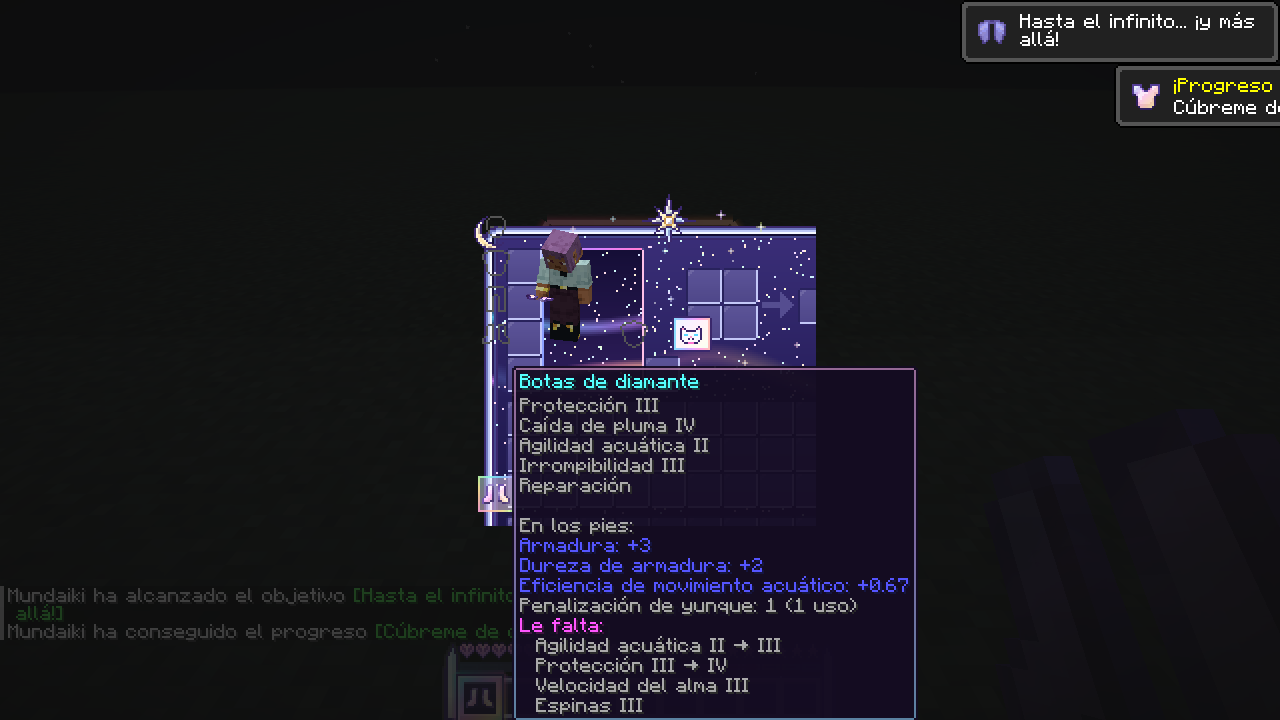
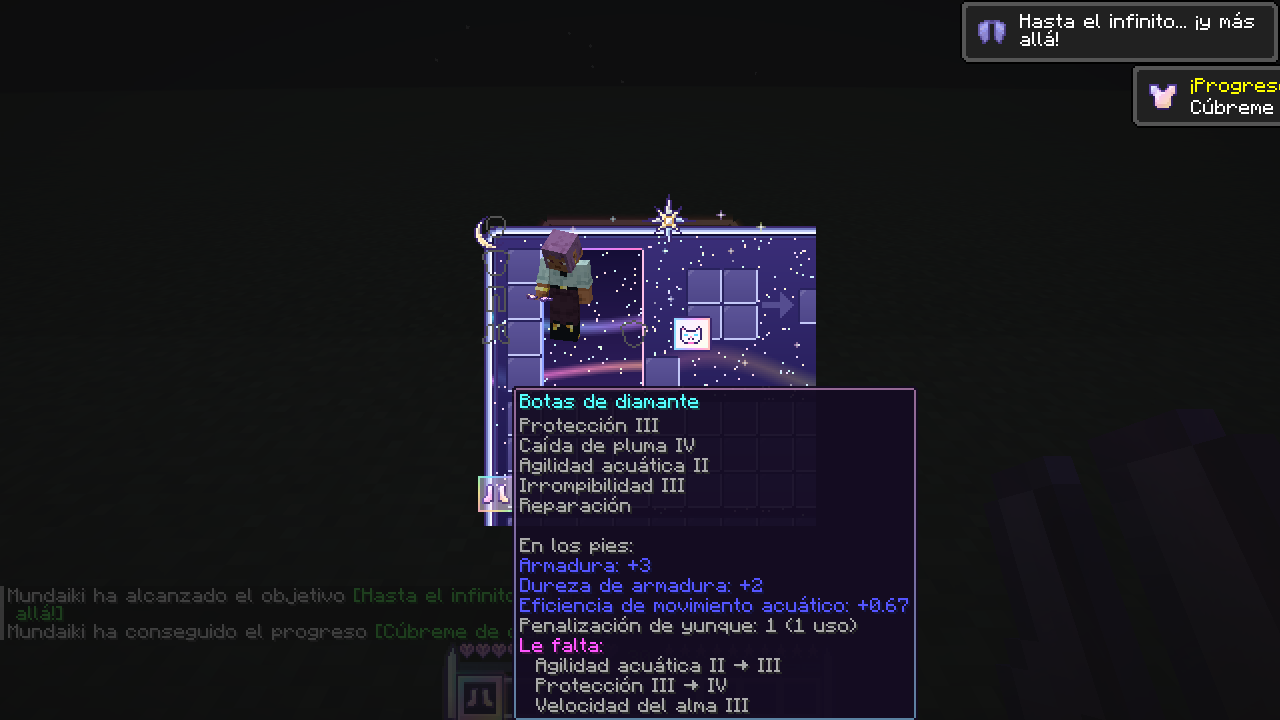
Aurora Guía 1.2.1: never ask for Thorns
The player does not want Thorns: it is now treated like a curse, so it is never listed as missing,
does not block "complete", and the anvil plan never uses a book that carries it.

Claude-Session: https://claude.ai/code/session_01JTmNSfwH9XbUPiyMDujX2x

Changed region(s): [[0.375, 0.4889, 0.7188, 1.0], [0.875, 0.0917, 1.0, 0.1833], [0.6875, 0.5194, 0.7188, 0.55]]

diff --git a/mod/src/main/java/dev/mineleaf/auroraguia/anvil/McAnvil.java b/mod/src/main/java/dev/mineleaf/auroraguia/anvil/McAnvil.java
@@ -19,6 +19,7 @@ import net.minecraft.world.item.ItemStack;
 import net.minecraft.world.item.Items;
 import net.minecraft.world.item.enchantment.Enchantment;
 import net.minecraft.world.item.enchantment.EnchantmentHelper;
+import net.minecraft.world.item.enchantment.Enchantments;
 import net.minecraft.world.item.enchantment.ItemEnchantments;
 
 /** Builds {@link AnvilMath} inputs from real item stacks and the synced enchantment registry. */
@@ -74,11 +75,19 @@ public final class McAnvil {
 		return c;
 	}
 
-	/** Enchantments (no curses) that {@code stack} could still get or raise, ignoring ones that clash with what it has. */
+	/**
+	 * Enchantments the guide never asks for: curses, and Thorns (it wears the armour down and the player does not
+	 * want it). They are never "missing" and the anvil plan never adds them.
+	 */
+	public static boolean unwanted(Holder<Enchantment> h) {
+		return h.is(EnchantmentTags.CURSE) || h.is(Enchantments.THORNS);
+	}
+
+	/** Enchantments (none of the unwanted ones) that {@code stack} could still get or raise, ignoring ones that clash with what it has. */
 	public static List<Holder<Enchantment>> improvable(ItemStack stack, Map<String, Holder<Enchantment>> reg) {
 		ItemEnchantments have = EnchantmentHelper.getEnchantmentsForCrafting(stack);
 		return reg.values().stream()
-			.filter(h -> !h.is(EnchantmentTags.CURSE) && h.value().canEnchant(stack))
+			.filter(h -> !unwanted(h) && h.value().canEnchant(stack))
 			.filter(h -> {
 				int lvl = have.getLevel(h);
 				return lvl > 0 ? lvl < h.value().getMaxLevel() : have.keySet().stream().allMatch(o -> Enchantment.areCompatible(h, o));
@@ -117,7 +126,7 @@ public final class McAnvil {
 			@Override
 			public boolean isCurse(String e) {
 				Holder<Enchantment> h = reg.get(e);
-				return h != null && h.is(EnchantmentTags.CURSE);
+				return h != null && unwanted(h);           // never put on, never counted
 			}
 		};
 	}

diff --git a/mod/src/main/java/dev/mineleaf/auroraguia/tooltip/GuiaTooltip.java b/mod/src/main/java/dev/mineleaf/auroraguia/tooltip/GuiaTooltip.java
@@ -82,12 +82,12 @@ public final class GuiaTooltip {
 	}
 
 	/**
-	 * Enchantments the item supports that it does not have at max level. Curses are left out. Enchantments
+	 * Enchantments the item supports that it does not have at max level. Curses and Thorns are left out. Enchantments
 	 * that clash with one it already has are left out; the ones that clash with each other are shown as
 	 * alternatives ("A / B").
 	 */
 	private static Missing compute(ItemStack stack, Map<String, Holder<Enchantment>> reg) {
-		if (reg.values().stream().noneMatch(h -> !h.is(net.minecraft.tags.EnchantmentTags.CURSE) && h.value().canEnchant(stack))) {
+		if (reg.values().stream().noneMatch(h -> !McAnvil.unwanted(h) && h.value().canEnchant(stack))) {
 			return null;
 		}
 		ItemEnchantments have = EnchantmentHelper.getEnchantmentsForCrafting(stack);

diff --git a/mod/src/main/java/dev/mineleaf/auroraguia/anvil/AnvilMath.java b/mod/src/main/java/dev/mineleaf/auroraguia/anvil/AnvilMath.java
@@ -29,7 +29,7 @@ public final class AnvilMath {
 		/** Enchantment.areCompatible: false for the same enchantment, like the game. */
 		boolean areCompatible(String a, String b);
 
-		/** Curses never count as an improvement. */
+		/** Curses (and anything else the player does not want, like Thorns) never count as an improvement. */
 		default boolean isCurse(String enchantment) {
 			return false;
 		}

diff --git a/mod/README.md b/mod/README.md
@@ -6,7 +6,7 @@ objetos ni reglas, así que no alteran ninguna mecánica vanilla.
 | Qué | Dónde | Detalle |
 |---|---|---|
 | **Yunque inteligente** | Panel a la derecha del yunque (con el fondo de los tooltips del pack) | Aviso si **al revés** sale más barato (mismo resultado, contando la durabilidad), penalización con la que queda el resultado y el **orden más barato** para ponerle los libros útiles que llevas en el inventario (hasta 8) y el que tengas en el yunque. Deja fuera los libros que no aportan, los que no caben por debajo de 40 y, entre alternativas (Filo / Castigo), la de uso general o **la que hayas puesto en el yunque**. Dice cuántos niveles te faltan. |
-| **Lo que le falta** | Tooltip | Penalización de yunque (solo si ya ha pasado por uno). En objetos encantados: "✦ Encantamientos completos" o "Mayús: le faltan N"; con **Mayús**, la lista (también en objetos sin encantar). Los que se excluyen entre sí salen como alternativas ("A / B"); sin maldiciones. |
+| **Lo que le falta** | Tooltip | Penalización de yunque (solo si ya ha pasado por uno). En objetos encantados: "✦ Encantamientos completos" o "Mayús: le faltan N"; con **Mayús**, la lista (también en objetos sin encantar). Los que se excluyen entre sí salen como alternativas ("A / B"); sin maldiciones ni Espinas. |
 
 Capturas hechas dentro del juego real con `runClientGameTest`: [`previews/`](previews/).
 
@@ -15,7 +15,7 @@ y unas líneas en los tooltips.
 
 ## Instalar
 1. Fabric Loader 0.19.5 o superior para la 26.3 y **Fabric API** 0.162.0+26.3.
-2. Copia `dist/aurora-guia-1.2.0.jar` en `.minecraft/mods`.
+2. Copia `dist/aurora-guia-1.2.1.jar` en `.minecraft/mods`.
 
 ## Compilar
 Necesita JDK 25.

diff --git a/aurora/HANDOFF.md b/aurora/HANDOFF.md
@@ -275,3 +275,8 @@ Todo vive ahora en `gitmobau/mineleaf-resourcepack`, carpeta `aurora/` (ver `aur
   los de 8c41ae2.
 - Se queda con lo nuevo de la aureola, la mochila y la cinta.
 - No quiere otra armadura: Aurora EMF ya no se mete en `dist/` (la carpeta se sigue generando).
+
+#### Aurora Guía 1.2.1: sin Espinas (2026-10-19)
+- Al usuario no le gusta Espinas: el mod la trata como las maldiciones (`McAnvil.unwanted`). No sale en "Le falta",
+  no cuenta para "Encantamientos completos" y el plan del yunque nunca usa un libro que la lleve.
+- Comprobado en el juego: las botas de la captura `04_tooltip_botas_mayus` ya no piden Espinas III.
